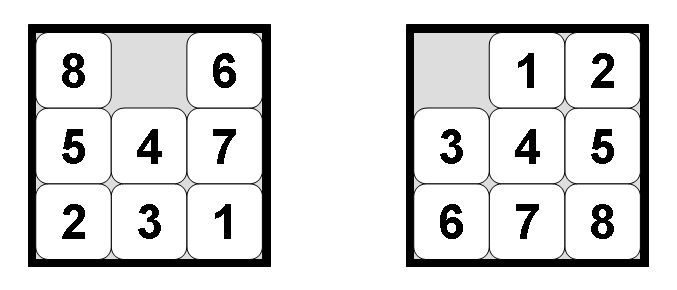
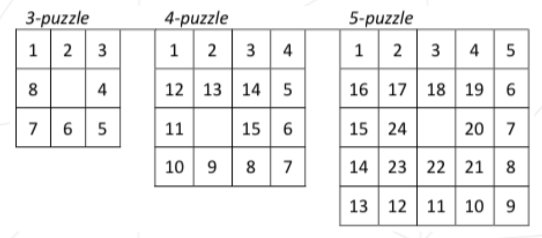
change heuristic manhattan to snail version

diff --git a/src/npuzzle/npuzzle.rs b/src/npuzzle/npuzzle.rs
@@ -18,16 +18,37 @@ pub struct NPuzzle
 	size:			usize,
 	initial_state:	Board,
 	goal_state:		Board,
+
+	/// For the tiles number i, index_tiles[i] is the index of where the tile
+	/// i should be place in the final state.
+	index_tiles:	Vec<(usize, usize)>,
 }
 
 impl NPuzzle
 {
 	fn new(size: usize, initial_state: Board) -> NPuzzle {
-		NPuzzle{
+		let mut  to_return = NPuzzle{
 			size:			size,
 			initial_state:	initial_state,
 			goal_state:		NPuzzle::create_goal_state(size),
+			index_tiles:	Vec::new(),
+		};
+		to_return.index_tiles = to_return.create_index_tiles();
+		to_return
+	}
+
+	fn create_index_tiles(&self) -> Vec<(usize, usize)> {
+		let mut to_return = Vec::new();
+		for i in (0..self.nb_tile()) {
+			let iter = self.goal_state.get_tiles().iter().enumerate();
+			for (tile_idx, tile) in iter {
+				if tile.to_nbr() == i as i32 {
+					to_return.push(self.goal_state.xy_out_of_index(tile_idx));
+					break ;
+				}
+			}
 		}
+		to_return
 	}
 
 	fn create_goal_state(size: usize) -> Board {
@@ -39,7 +60,6 @@ impl NPuzzle
 		}
 
 		//convert it to snail
-		println!("###for {:?}", size);
 		let mut x = 0i32;
 		let mut ix = 1i32;
 		let mut y = 0i32;
@@ -48,7 +68,6 @@ impl NPuzzle
 		let s = size as i32;
 		loop {
 			puzzle[(x + y * s) as usize] = cur;
-			println!("{:?}", x + y * s);
 			if cur == 0 {
 				break ;
 			}
@@ -59,10 +78,9 @@ impl NPuzzle
 				iy = ix;
 				ix = 0;
 			}
-			else if x + (y+iy) < (s * s + 1) &&
-					(y + iy == s as i32 ||
-					 					y + iy < 0 ||
-					 					(iy != 0 && puzzle[(x + (y+iy) * s) as usize] != -1)) {
+			else if y + iy == s as i32 ||
+ 					y + iy < 0 ||
+					(iy != 0 && puzzle[(x + (y+iy) * s) as usize] != -1) {
 				ix = -iy;
 				iy = 0;
 			}
@@ -174,6 +192,10 @@ impl NPuzzle
 
 	pub fn get_goal_state(&self) -> &Board {
 		&self.goal_state
+	}
+
+	pub fn get_index_tiles(&self) -> &Vec<(usize, usize)> {
+		&self.index_tiles
 	}
 
 	///Return true if the board is complete

diff --git a/src/algo/heuristic.rs b/src/algo/heuristic.rs
@@ -1,10 +1,10 @@
 //! A A* heuristic is a way to evaluate how much it will cost to evolve the
 //! current state to the goal state. This is an approximation.
 
-use npuzzle::{Board, Tile};
+use npuzzle::{Board, Tile, NPuzzle};
 use options;
 
-pub type HeuristicFn = fn(current_state: &Board, goal_state: &Board) -> i32;
+pub type HeuristicFn = fn(current_state: &Board, game: &NPuzzle) -> i32;
 
 pub fn from_option(opt: options::Heuristic) -> HeuristicFn {
 	match opt {
@@ -12,14 +12,10 @@ pub fn from_option(opt: options::Heuristic) -> HeuristicFn {
 	}
 }
 
-pub fn manhattan(current_state: &Board, goal_state: &Board) -> i32 {
+pub fn manhattan(current_state: &Board, game: &NPuzzle) -> i32 {
 	let mut to_return = 0;
 	for (i, tile) in current_state.get_tiles().iter().enumerate() {
-		let (x_goal, y_goal) = match tile.to_nbr() - 1 {
-			-1 =>	current_state
-							.xy_out_of_index(current_state.nb_tile() - 1),
-			_ =>	current_state.xy_out_of_index(tile.to_nbr() as usize - 1),
-		};
+		let (x_goal, y_goal) = game.get_index_tiles()[tile.to_nbr() as usize];
 		let (x_current, y_current) = current_state.xy_out_of_index(i);
 		to_return += (x_current as i32 - x_goal as i32).abs() +
 				(y_current as i32 - y_goal as i32).abs();

diff --git a/src/algo/test.rs b/src/algo/test.rs
@@ -7,32 +7,26 @@ mod test
 
 	fn one_manh_test(initial: &str, expected: i32) {
 		let np = NPuzzle::new_from_str(&initial.to_string()).unwrap();
-		let nbr = heuristic::manhattan(np.get_initial_state(),
-				np.get_goal_state());
+		let nbr = heuristic::manhattan(np.get_initial_state(), &np);
 		assert!(nbr == expected);
 	}
 
 	#[test]
 	fn test_manhattan() {
 		let mut s = r#"3
-		1 2 3
-		4 5 6
-		7 8 0"#;
+			1 2 3
+			8 0 4
+			7 6 5"#;
 		one_manh_test(s, 0);
 		let mut s = r#"3
-		1 3 2
-		4 5 6
-		7 8 0"#;
+			1 2 3
+			8 4 0
+			7 6 5"#;
 		one_manh_test(s, 2);
 		let mut s = r#"3
-		1 2 7
-		4 5 6
-		3 8 0"#;
-		one_manh_test(s, 8);
-		let mut s = r#"3
-		1 3 6
-		4 5 2
-		7 8 0"#;
+			1 2 3
+			8 4 5
+			7 0 6"#;
 		one_manh_test(s, 4);
 	}
 }

diff --git a/src/algo/astar_node.rs b/src/algo/astar_node.rs
@@ -58,7 +58,7 @@ impl AStarNode
 			parent:			parent,
 			current_state:	board,
 		};
-		to_return.h = heu(&to_return.current_state, game.get_goal_state());
+		to_return.h = heu(&to_return.current_state, &game);
 		to_return
 	}
 

diff --git a/README.md b/README.md
@@ -1,5 +1,5 @@
 # n_puzzle_42
-Program to solve n puzzle (taquin) games using the [A* algorithm](https://en.wikipedia.org/wiki/A*_search_algorithm). In [rust](https://www.rust-lang.org/).
+Program to solve n puzzle (taquin) games (snail version) using the [A* algorithm](https://en.wikipedia.org/wiki/A*_search_algorithm). In [rust](https://www.rust-lang.org/).
 
 ![Image of n puzzle](https://github.com/gbersac/n_puzzle_42/blob/master/taquin.png)
 
